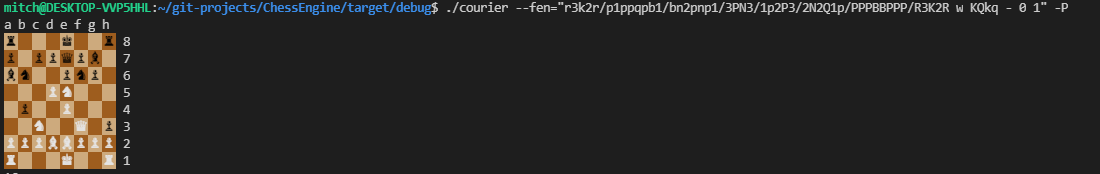
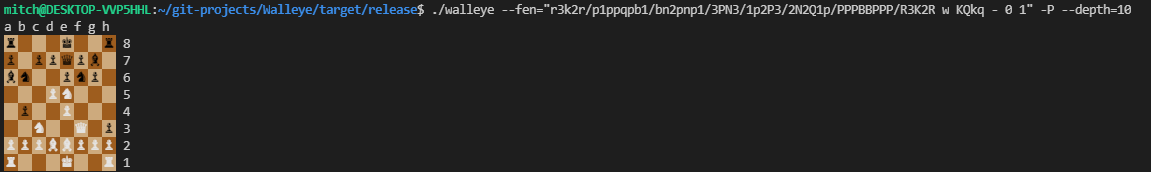
Changed name of engine

Changed region(s): [[0.0, 0.1163, 0.1236, 1.0], [0.0, 0.0, 0.9891, 0.1163]]

diff --git a/README.md b/README.md
@@ -1,10 +1,10 @@
-# Courier
+# Walleye
 
-Courier is a chess engine written completely in rust.
+Walleye is a chess engine written completely in rust.
 
 ![tests](https://github.com/MitchelPaulin/ChessEngine/actions/workflows/rust.yml/badge.svg)
 
-Courier is a UCI compatible engine written using the classical alpha-beta style AI. It supports loading board positions from arbitrary FEN strings, unicode pretty printing to the console and UCI communication logs to help with debugging.
+Walleye is a UCI compatible engine written using the classical alpha-beta style AI. It supports loading board positions from arbitrary FEN strings, unicode pretty printing to the console and UCI communication logs to help with debugging.
 
 Originally this project was meant as a first introduction to rust and chess programming, but it got a bit carried away.
 
@@ -14,7 +14,7 @@ By default the engine launches in UCI mode and expects to be loaded into a chess
 
 ![demo](./demo/demo.png)
 
-Type `./courier --help` for a complete list of commands.
+Type `./walleye --help` for a complete list of commands.
 
 ## Play Against It
 
@@ -30,4 +30,4 @@ Some resources I found helpful when creating this engine
 
 ## License
 
-Courier is under the MIT license.
+Walleye is under the MIT license.
